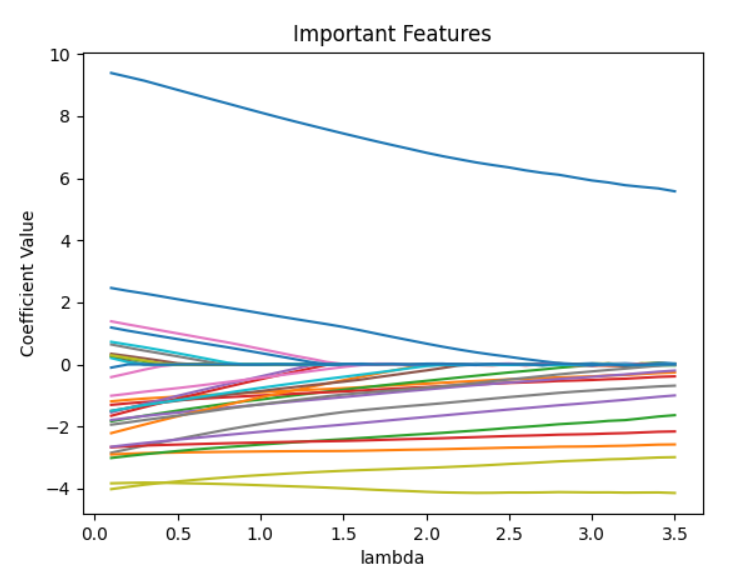
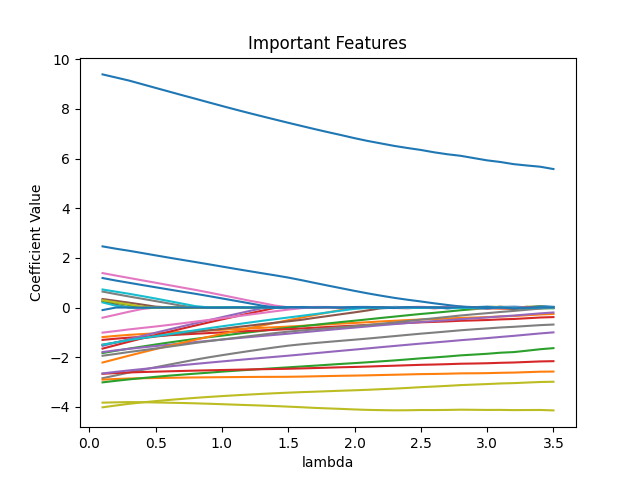
Final Commit

Changed region(s): [[0.0, 0.0312, 0.9688, 1.0], [0.9375, 0.0938, 0.9688, 0.125]]

diff --git a/q6a.py b/q6a.py
@@ -1,8 +1,9 @@
 import numpy as np
 import pandas as pd
 import multiLayerPerceptron.MLP_layer as layer
-from multiLayerPerceptron.MLP_network import NeuralNetwork
+from multiLayerPerceptron.MLP_network import MultiLayerPerceptron
 from sklearn.datasets import load_digits
+from sklearn.model_selection import KFold 
 from keras.datasets import mnist
 from keras.utils import np_utils
 from metrics import *
@@ -14,7 +15,7 @@ X = X.astype('float32')
 y = np_utils.to_categorical(y)
 
 # Defining the Network
-net = NeuralNetwork()
+net = MultiLayerPerceptron()
 net.add(layer.FullyConnectedLayer(64, 32))
 net.add(layer.ActivationLayer(layer.sigmoid, layer.sigmoid_prime))
 net.add(layer.FullyConnectedLayer(32, 16))                   
@@ -22,12 +23,26 @@ net.add(layer.ActivationLayer(layer.sigmoid, layer.sigmoid_prime))
 net.add(layer.FullyConnectedLayer(16, 10))                   
 net.add(layer.ActivationLayer(layer.sigmoid, layer.sigmoid_prime))
 
-net.use(layer.mse, layer.mse_prime)
-net.fit(X, y, epochs=30, learning_rate=2e-1)
+kf = KFold(n_splits=3)
 
-out = net.predict(X)
-y_true = [np.argmax(i) for i in out]
-out = np.argmax(out,axis=1)
-yhat = [np.argmax(i) for i in y]
-print("Accuracy:", accuracy(pd.Series(yhat),pd.Series(y_true)))
+f = 1
+ov_acc = 0
+net.use(layer.mse, layer.mse_prime)
+for train_index, test_index in kf.split(X):
+    X_train = X[train_index]
+    y_train = y[train_index]
+    X_test = X[test_index]
+    y_test = y[test_index]
+
+    net.fit(X_train, y_train, epochs=40, learning_rate=2e-1)
+    out = net.predict(X_test)
+    y_true = [np.argmax(i) for i in out]
+    out = np.argmax(out,axis=1)
+    yhat = [np.argmax(i) for i in y_test]
+    acc = accuracy(pd.Series(yhat),pd.Series(y_true))
+    print(f"Accuracy for fold {f}:", acc)
+    f+=1
+    ov_acc += acc
+
+print("Overall Accuracy:", ov_acc/3)
 

diff --git a/q6b.py b/q6b.py
@@ -1,10 +1,11 @@
 import numpy as np
 import pandas as pd
 import multiLayerPerceptron.MLP_layer as layer
-from multiLayerPerceptron.MLP_network import NeuralNetwork
+from multiLayerPerceptron.MLP_network import MultiLayerPerceptron
 from sklearn.datasets import load_boston
 from keras.datasets import mnist
 from keras.utils import np_utils
+from sklearn.model_selection import KFold 
 from sklearn.preprocessing import MinMaxScaler  
 import math  
 from metrics import *
@@ -18,17 +19,31 @@ X = X.reshape(X.shape[0], 1, 13)
 X = X.astype('float32')
 
 # Defining the Network
-net = NeuralNetwork()
-net.add(layer.FullyConnectedLayer(13, 26))                
+net = MultiLayerPerceptron()
+net.add(layer.FullyConnectedLayer(13, 40))                
 net.add(layer.ActivationLayer(layer.sigmoid, layer.sigmoid_prime))
-net.add(layer.FullyConnectedLayer(26, 13))                   
+net.add(layer.FullyConnectedLayer(40, 13))                   
 net.add(layer.ActivationLayer(layer.sigmoid, layer.sigmoid_prime))
-net.add(layer.FullyConnectedLayer(13, 1))                   
+net.add(layer.FullyConnectedLayer(13, 1)) 
 
+kf = KFold(n_splits=3)
+
+i = 1
+ov_rmse = 0
 net.use(layer.mse, layer.mse_prime)
-net.fit(X, y, epochs=100, learning_rate=3e-3)
+for train_index, test_index in kf.split(X):
+    X_train = X[train_index]
+    y_train = y[train_index]
+    X_test = X[test_index]
+    y_test = y[test_index]
 
-y_hat = net.predict(X)
-print("RMSE error:", rmse(pd.Series(y_hat),pd.Series(y)))
+    net.fit(X_train, y_train, epochs=100, learning_rate=3e-3)
+    y_hat = net.predict(X_test)
+    rmse_curr = rmse(pd.Series(y_hat),pd.Series(y_test))
+    print(f"RMSE error for Fold {i}:", rmse_curr)
+    ov_rmse += rmse_curr
+    i+=1
+
+print("Overall RMSE:", ov_rmse/3)
 
 

diff --git a/logisticRegression/logisticRegression.py b/logisticRegression/logisticRegression.py
@@ -110,7 +110,6 @@ class LogisticRegression():
                     X_copy.fill(X_diff)
                     errors = np.multiply(X_copy,curr_X)
                     curr_coeff[k] += lr*errors
-            # print("Progress:",i/n_iter*100)
         self.coef = curr_coeff
 
     def fit_multiclass_autograd(self, X, y, n_iter, lr):
@@ -127,7 +126,6 @@ class LogisticRegression():
             mse_auto = grad(self.error_function_multiclass)
             dmse = mse_auto(curr_coeff) 
             curr_coeff -= lr*dmse
-            # print("Progress:",i/n_iter*100)
         self.coef = curr_coeff
 
     def predict(self, X):
@@ -156,3 +154,24 @@ class LogisticRegression():
                     pred_class=self.classes[j]
             y_hat.append(pred_class)
         return(pd.Series(y_hat))
+
+    def plot(self, X, y):
+        b = self.coef[0]
+        w1, w2 = self.coef[1], self.coef[2]
+        c = -b/w2
+        m = -w1/w2 #intercept and slope
+        xl, xr = -0.25, 1.25
+        yl, yr = -0.25, 1.25
+        xd = np.array([xl, xr])
+        yd = m*xd + c
+        plt.plot(xd, yd, 'k', lw=1, ls='--')
+        plt.fill_between(xd, yd, yl, color='tab:blue', alpha=0.2)
+        plt.fill_between(xd, yd, yr, color='tab:orange', alpha=0.2)
+        plt.scatter(*X[y==0].T, s=8, alpha=0.5)
+        plt.scatter(*X[y==1].T, s=8, alpha=0.5)
+        plt.xlim(xl, xr)
+        plt.ylim(yl, yr)
+        plt.ylabel(r'$x_2$')
+        plt.xlabel(r'$x_1$')
+        plt.savefig('Plots/Q1d.png')
+        plt.show()

diff --git a/q1cd.py b/q1cd.py
@@ -5,7 +5,7 @@ from logisticRegression.logisticRegression import LogisticRegression
 from sklearn.preprocessing import MinMaxScaler 
 from sklearn.datasets import load_breast_cancer
 from metrics import *
-import math
+import math, copy
 
 np.random.seed(42)
 data = load_breast_cancer()
@@ -19,6 +19,8 @@ X = scalar.transform(X)
 X = pd.DataFrame(X) # This scales data to the range 0-1 and is easier to train
 
 acc_ov = 0
+best_accuracy = 0
+best_LR = None
 for i in range(3):
     xti = X.iloc[i*190:min(570,(i+1)*190)]
     yti = y[i*190:min(570,(i+1)*190)]
@@ -38,7 +40,15 @@ for i in range(3):
     LR.fit(xi,yi,n_iter=600, lr=7e-03)
     y_hat = LR.predict(xti)
     acc_curr = accuracy(y_hat,yti)
+    if(acc_curr>best_accuracy):
+        best_accuracy = acc_curr
+        best_LR = copy.deepcopy(LR)
     print(f'Accuracy Fold {i+1}: ', acc_curr)
     acc_ov += acc_curr
-
 print("Overall Accuracy:",acc_ov/3)
+
+print("Decision boundary for features 0 and 1:")
+LR = LogisticRegression()
+LR.fit(X[[0,1]],y,n_iter=500, lr=5e-3)
+LR.plot(np.array(X[[0,1]]), np.array(y))
+

diff --git a/multiLayerPerceptron/MLP_network.py b/multiLayerPerceptron/MLP_network.py
@@ -1,6 +1,6 @@
 from autograd import numpy as np, elementwise_grad
-class NeuralNetwork():
 
+class MultiLayerPerceptron():
     def __init__(self):
         self.listOfLayers = []
         self.loss = None
@@ -36,8 +36,6 @@ class NeuralNetwork():
                 error = auto(output,y_train[j])
                 for layer in reversed(self.listOfLayers):
                     error = layer.backwardPass(error, learning_rate)
-
             err /= samples
-            print('(Epoch, error): (%d/%d, %f)' % (i+1, epochs, err))
 
      

diff --git a/q3cd.py b/q3cd.py
@@ -20,7 +20,6 @@ X = scalar.transform(X)
 X = pd.DataFrame(X) # This scales data to the range 0-1 and is easier to train
 
 skf = StratifiedKFold(n_splits=4)
-skf.get_n_splits(X, y)
 
 i = 1
 ov_ac = 0
@@ -67,4 +66,5 @@ pca = PCA(n_components=2)
 X = pca.fit_transform(load_digits().data)
 plt.scatter(X[:,0],X[:,1], c=load_digits().target, cmap="Paired")
 plt.colorbar()
+plt.savefig('Plots/Q3d.png')
 plt.show()

diff --git a/q2b.py b/q2b.py
@@ -136,4 +136,5 @@ plt.plot(coefs, thetas)
 plt.xlabel('lambda')
 plt.ylabel('Coefficient Value')
 plt.title('Important Features')
+plt.savefig('Plots/Q2b.png')
 plt.show()

diff --git a/multiLayerPerceptron/MLP_layer.py b/multiLayerPerceptron/MLP_layer.py
@@ -1,4 +1,3 @@
-import numpy as np 
 from autograd import numpy as np, elementwise_grad
 
 def sigmoid(x):

diff --git a/assignment_q6_subjective_answers.md b/assignment_q6_subjective_answers.md
@@ -4,7 +4,16 @@
 
 ------
 
-Accuracy = 99.165% for Digits Data: 30 epochs, learning rate: 2e-1
+Digits Data: 30 epochs, learning rate: 2e-1
 Using a 64,32,16,10 Neural Network, with sigmoid activation.
-RMSE = 3.5635 for Boston Data: 100 epochs, learning rate: 3e-3
+Accuracy for fold 1: 0.9265442404006677
+Accuracy for fold 2: 0.9766277128547579
+Accuracy for fold 3: 0.9766277128547579
+Overall Accuracy: 0.9599332220367279
+
+Boston Data: 100 epochs, learning rate: 3e-3
+RMSE error for Fold 1: 4.077156555388063
+RMSE error for Fold 2: 4.335629835777172
+RMSE error for Fold 3: 4.182501429710399
+Overall RMSE: 4.198429273625211
 Using a 13,26,13 Neural Network, with sigmoid activation.

diff --git a/assignment_q1_subjective_answers.md b/assignment_q1_subjective_answers.md
@@ -9,3 +9,5 @@ Accuracy Fold 1:  0.95263
 Accuracy Fold 2:  0.97368
 Accuracy Fold 3:  0.98412
 Overall Accuracy: 0.97014
+
+Graph plot for decision Boundary for 2d data based on feature 0 and 1 of the input data.

diff --git a/assignment_q5_subjective_answers.md b/assignment_q5_subjective_answers.md
@@ -5,4 +5,3 @@
 ------
 
 The two files namely MLP_network.py and MLP_layer.py are used to create the Neural Network. Backpropagation done with Autograd.
-
